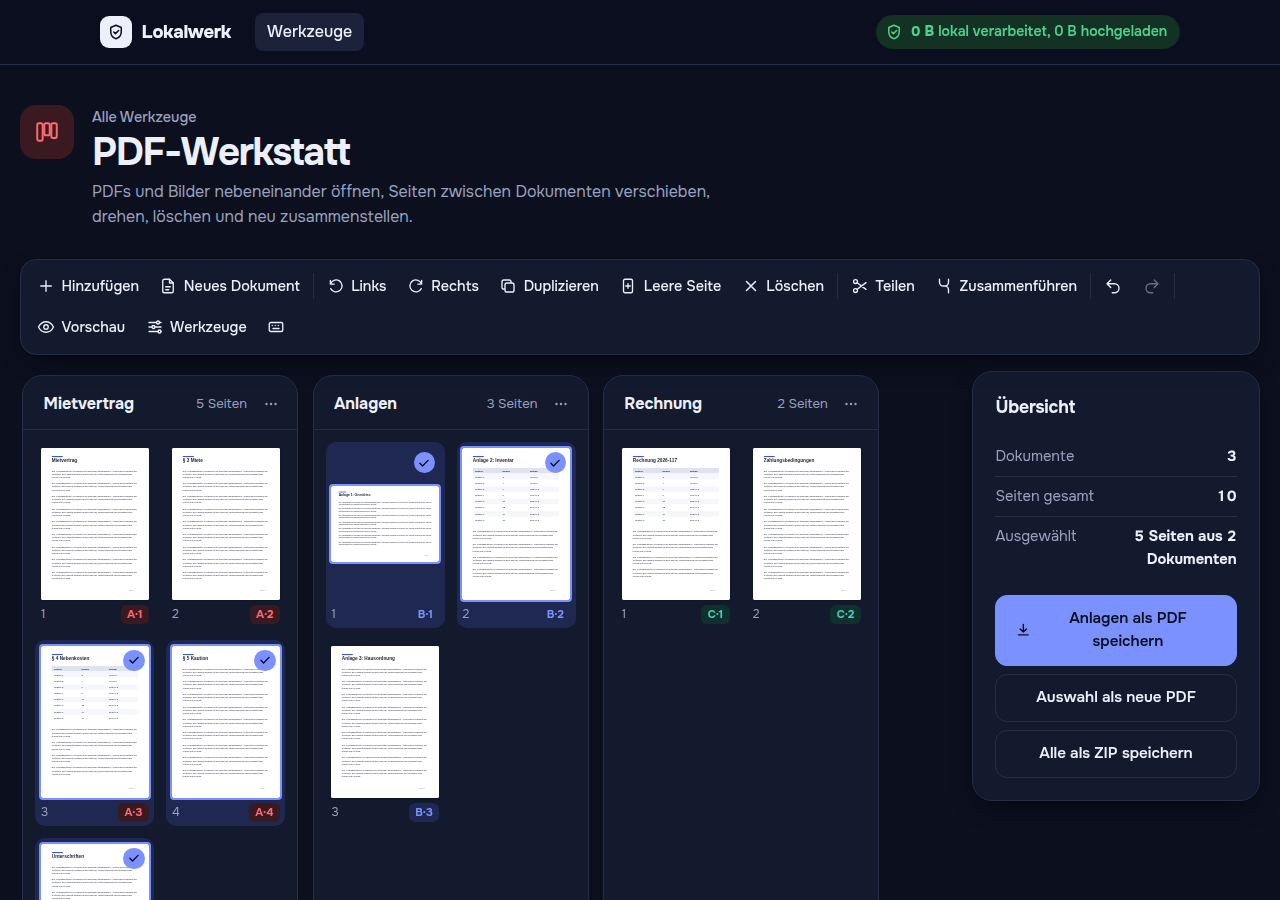
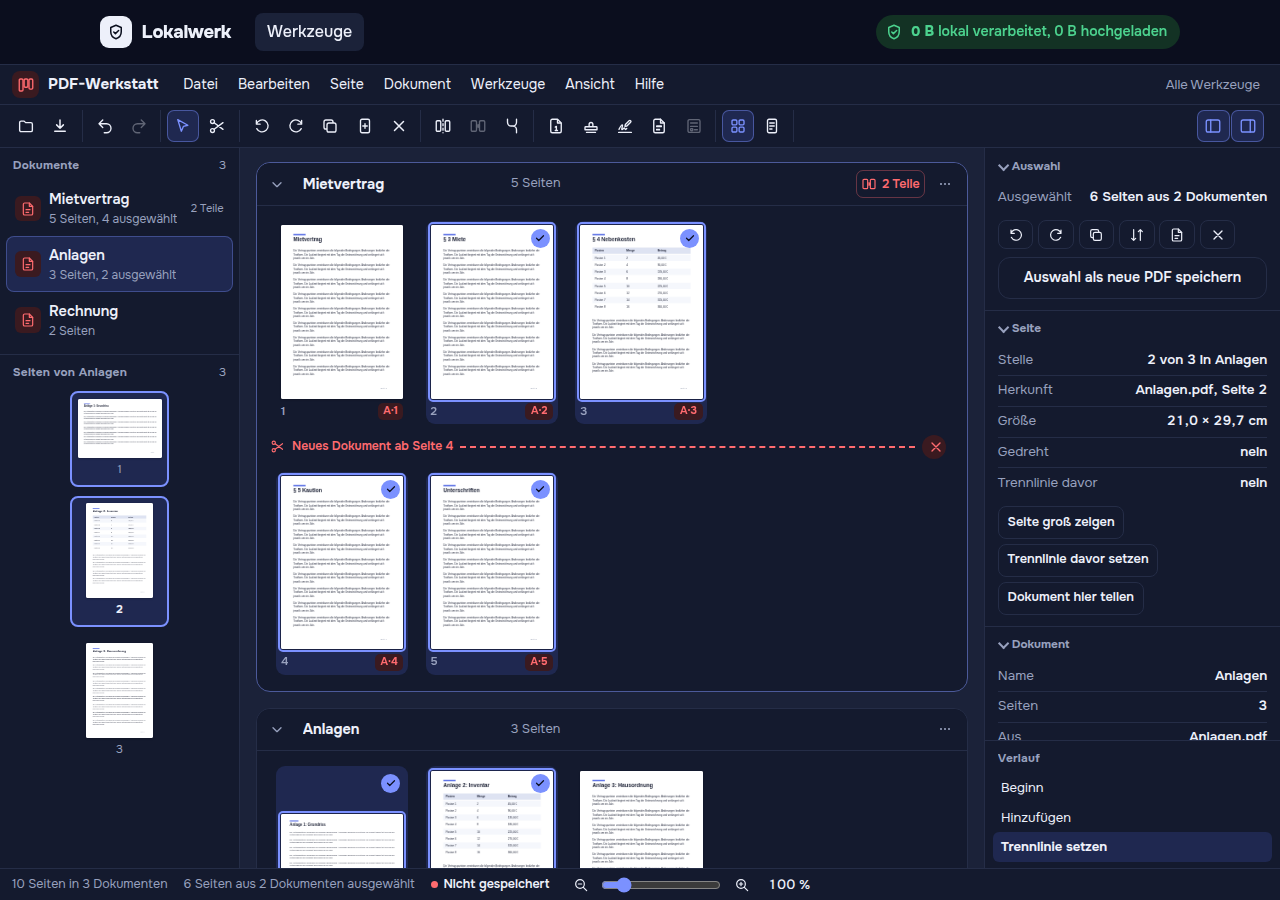
PDF-Werkstatt, Umbau: Trennlinien alle n Seiten, Querformat hochkant, neue README-Screenshots
Claude-Session: https://claude.ai/code/session_01RTJKHEUfQYsWeNYKSB1B31

diff --git a/src/tools/pdf-werkstatt/actions.ts b/src/tools/pdf-werkstatt/actions.ts
@@ -11,6 +11,7 @@ import {
   closeDoc,
   joinDocs,
   moveDoc,
+  replaceCuts,
   reversePages,
   setCuts,
   splitAtCuts,
@@ -40,6 +41,7 @@ import {
   type DocId,
   type PageBox,
   type PageKey,
+  visiblePageSize,
 } from '../../core/workshop/model.ts';
 import {
   EMPTY_SELECTION,
@@ -574,6 +576,39 @@ export function createActions(ctx: ActionContext) {
       const target = findDoc(store.state, doc);
       if (!target) return;
       selectAnnounce(target.pages.filter((_, i) => (i % 2 === 0) === odd).map((p) => p.key));
+    },
+
+    /** Trennlinien alle `n` Seiten setzen (Teilen nach Seitenzahl, erst ansehen, dann teilen) */
+    cutsEvery: (doc: DocId, n: number): void => {
+      const target = findDoc(store.state, doc);
+      if (!target || n < 1) return;
+      const keys = target.pages.filter((_, i) => i > 0 && i % n === 0).map((p) => p.key);
+      if (keys.length === 0) {
+        ctx.announce(t.CUTS_EVERY_NONE);
+        return;
+      }
+      store.run(replaceCuts(doc, keys));
+      ctx.announce(t.cutsEveryDone(keys.length + 1, target.name));
+    },
+
+    /** Seiten im Querformat um 90 Grad drehen, damit alle hochkant stehen */
+    portrait: (): void => {
+      const keys = needPages();
+      if (!keys) return;
+      const index = indexPages(store.state);
+      const wide = keys.filter((k) => {
+        const page = index.get(k)?.page;
+        if (!page) return false;
+        const size = visiblePageSize(store.state, page);
+        return size.width > size.height;
+      });
+      if (wide.length === 0) {
+        ctx.announce(t.PORTRAIT_NONE);
+        return;
+      }
+      store.run(rotatePages(wide, 90));
+      ctx.announce(t.portraitDone(wide.length));
+      ctx.focusAfterRender();
     },
 
     /** Seiten nach Nummern (ab 1) im Dokument auswählen */

diff --git a/src/tools/pdf-werkstatt/texts.ts b/src/tools/pdf-werkstatt/texts.ts
@@ -407,6 +407,8 @@ export const C = {
   cutRemoveHere: 'Trennlinie davor entfernen',
   splitHere: 'Dokument hier teilen',
   splitCuts: 'An Trennlinien teilen',
+  cutsEvery: 'Trennlinien alle … Seiten',
+  portrait: 'Querformat hochkant drehen',
   clearCuts: 'Alle Trennlinien entfernen',
   openSingle: 'Seite groß zeigen',
   rename: 'Umbenennen',
@@ -588,3 +590,18 @@ export const GRID_KEYS: readonly (readonly [string, string])[] = [
   [combo('shift', 'F10'), 'Menü der Seite'],
   ['F10', 'Menüleiste'],
 ];
+
+// Teilen nach Seitenzahl, Querformat hochkant
+export const CUTS_EVERY_TITLE = 'Trennlinien alle … Seiten';
+export const CUTS_EVERY_LABEL = 'Seiten je Teil';
+export const CUTS_EVERY_OK = 'Trennlinien setzen';
+export const cutsEverySub = (name: string, count: number): string =>
+  `${name}, ${pages(count)}. Vorhandene Trennlinien werden ersetzt; geteilt wird erst mit „An Trennlinien teilen“.`;
+export const cutsEveryError = (count: number): string =>
+  `Gib eine Zahl von 1 bis ${Math.max(1, count - 1)} ein.`;
+export const cutsEveryDone = (parts: number, name: string): string =>
+  `Trennlinien gesetzt: ${name} ergibt ${parts} Teile. Mit „An Trennlinien teilen“ entstehen die Dokumente.`;
+export const CUTS_EVERY_NONE =
+  'Das Dokument ist nicht länger als ein Teil. Es wurde keine Trennlinie gesetzt.';
+export const portraitDone = (n: number): string => `${pages(n)} im Querformat hochkant gedreht`;
+export const PORTRAIT_NONE = 'Keine der Seiten steht im Querformat.';

diff --git a/src/tools/pdf-werkstatt/ui-commands.ts b/src/tools/pdf-werkstatt/ui-commands.ts
@@ -74,6 +74,7 @@ export interface App {
   openShortcuts: () => void;
   goToPage: () => void;
   selectRange: () => void;
+  cutsEvery: () => void;
   showGuide: () => void;
   openSingle: (key?: PageKey) => void;
 }
@@ -421,6 +422,13 @@ export function createCommands(app: App): Map<string, Cmd> {
       group: 'doc',
     },
     {
+      id: 'cuts-every',
+      label: t.C.cutsEvery,
+      enabled: () => (doc()?.pages.length ?? 0) > 1,
+      run: app.cutsEvery,
+    },
+    { id: 'portrait', label: t.C.portrait, enabled: hasPages, run: actions.portrait },
+    {
       id: 'clear-cuts',
       label: t.C.clearCuts,
       enabled: () => {
@@ -700,6 +708,7 @@ export function menubar(ctx: MenuContext): { label: string; items: () => MenuEnt
         e('rotate-right'),
         e('rotate-left'),
         e('rotate-180'),
+        e('portrait'),
         SEP,
         e('shift-up'),
         e('shift-down'),
@@ -745,6 +754,7 @@ export function menubar(ctx: MenuContext): { label: string; items: () => MenuEnt
         e('duplicate-doc'),
         SEP,
         e('split-cuts'),
+        e('cuts-every'),
         e('clear-cuts'),
         e('merge'),
         {

diff --git a/src/core/workshop/commands.ts b/src/core/workshop/commands.ts
@@ -615,6 +615,26 @@ export function setCuts(keys: Iterable<PageKey>, on: boolean): Command {
   };
 }
 
+/** Trennlinien eines Dokuments durch genau diese ersetzen (Trennlinien alle n Seiten) */
+export function replaceCuts(id: DocId, keys: readonly PageKey[]): Command {
+  return {
+    label: 'Trennlinien setzen',
+    apply(state) {
+      const doc = findDoc(state, id);
+      if (!doc) return unchanged(state);
+      const inner = new Set(doc.pages.slice(1).map((p) => p.key));
+      const cuts = keys.filter((k) => inner.has(k));
+      const before = doc.cuts ?? [];
+      if (cuts.length === before.length && cuts.every((k) => before.includes(k))) {
+        return unchanged(state);
+      }
+      const { cuts: _old, ...rest } = doc;
+      const next: Doc = cuts.length > 0 ? { ...rest, cuts } : rest;
+      return { state: withDocs(state, replaceDoc(state.docs, next)) };
+    },
+  };
+}
+
 /** Alle Trennlinien der Dokumente entfernen */
 export function clearCuts(ids: Iterable<DocId>): Command {
   return {

diff --git a/tests/core/workshop/cuts.test.ts b/tests/core/workshop/cuts.test.ts
@@ -6,6 +6,7 @@ import {
   joinDocs,
   mergeDocs,
   moveDoc,
+  replaceCuts,
   movePages,
   setCuts,
   setPageNumbers,
@@ -59,6 +60,16 @@ describe('Trennlinien', () => {
     // Keine Linien mehr, Seitenzahlen gelten für jeden Teil
     expect(result.state.docs.every((d) => d.cuts === undefined)).toBe(true);
     expect(result.state.docs.slice(0, 3).every((d) => d.ops?.length === 1)).toBe(true);
+  });
+
+  it('ersetzt alle Linien eines Dokuments in einem Schritt (alle n Seiten)', () => {
+    const b = bench(pdfSource('a', 7));
+    const doc = b.state.docs[0]?.id ?? '';
+    b.run(setCuts(keysOf(b.state, 0, 1), true));
+    b.run(replaceCuts(doc, keysOf(b.state, 0, 0, 3, 6)));
+    expect(b.state.docs[0] && cutIndices(b.state.docs[0])).toEqual([3, 6]);
+    const before = b.state;
+    expect(b.run(replaceCuts(doc, keysOf(b.state, 0, 6, 3)))).toBe(before);
   });
 
   it('ohne Linien ändert „An Trennlinien teilen“ nichts', () => {

diff --git a/src/tools/pdf-werkstatt/page.ts b/src/tools/pdf-werkstatt/page.ts
@@ -441,6 +441,26 @@ const app: App = {
       },
     });
   },
+  cutsEvery: () => {
+    const doc = activeDoc();
+    if (!doc || doc.pages.length < 2) return;
+    askDialog.open({
+      title: t.CUTS_EVERY_TITLE,
+      sub: t.cutsEverySub(doc.name, doc.pages.length),
+      label: t.CUTS_EVERY_LABEL,
+      ok: t.CUTS_EVERY_OK,
+      inputMode: 'numeric',
+      value: '1',
+      submit: (value) => {
+        const n = Number(value);
+        if (!Number.isInteger(n) || n < 1 || n >= doc.pages.length) {
+          return t.cutsEveryError(doc.pages.length);
+        }
+        actions.cutsEvery(doc.id, n);
+        return null;
+      },
+    });
+  },
   showGuide: () => {
     const target = document.getElementById('ws-explain');
     target?.scrollIntoView({ behavior: 'smooth', block: 'start' });

diff --git a/docs/umbau-entscheidungen.md b/docs/umbau-entscheidungen.md
@@ -23,3 +23,5 @@ entschieden und mit einem Satz begründet. Fortschritt: `docs/umbau-fortschritt.
 | U16 | „In neues Dokument“ verschiebt jetzt (E); die bisherige Kopie heißt „Als Kopie in neues Dokument“. | Das erwartet man in einem Editor; die Kopie bleibt erreichbar. |
 | U17 | Zusätzliche Befehle ohne neue Fachregeln: Reihenfolge umkehren, um 180 Grad drehen, Danach einfügen, gerade/ungerade Seiten, Seitenbereich auswählen, Auswahl umkehren, Gehe zu Seite, Dokumente einklappen, Dokument nach oben/unten, Leisten ein- und ausblenden. | Übliche Funktionen eines Seiten-Editors; jede ist ein Menüeintrag. |
 | U18 | Auf dem Handy bleibt die vereinfachte Ansicht (ein Dokument, untere Leiste, kein Ziehen); die Menüleiste ist dort ebenfalls da, „Mehr“ zeigt alle Menüs. | Damit ist auf kleinen Bildschirmen jede Aktion erreichbar, ohne die Bedienung zu überladen. |
+| U19 | „Trennlinien alle … Seiten“ setzt die Linien nur (ein Schritt im Verlauf); geteilt wird erst mit „An Trennlinien teilen“. | So sieht man vorher, wie die Teile aussehen, und kann einzelne Linien noch verschieben oder entfernen. |
+| U20 | „Querformat hochkant drehen“ dreht nur die ausgewählten Seiten, die gerade breiter als hoch sind, um 90 Grad nach rechts. | Häufiger Fall bei Scans; die Richtung lässt sich danach mit einem Klick ändern. |

diff --git a/docs/umbau-fortschritt.md b/docs/umbau-fortschritt.md
@@ -47,6 +47,6 @@ nach unten abarbeiten, nach jedem Commit den Status hier aktualisieren.
 | 12 | Zusammenführen-Dialog mit Reihenfolge, Tastenkürzel-Übersicht aus der Befehlsliste | fertig |
 | 13 | Handy-Ansicht (vereinfacht, alles erreichbar) | offen |
 | 14 | Texte sammeln (texte-pdf-werkstatt.md), Erklärtext anpassen | fertig |
-| 15 | Screenshots- und Leistungsskript an die neue Oberfläche anpassen, README-Screenshots | offen |
+| 15 | Screenshots- und Leistungsskript an die neue Oberfläche anpassen, README-Screenshots | fertig |
 | 16 | Browser-Prüfung am Ende (Konsole, Netzwerk, CSP, hell/dunkel, 1280 px, Handy) | offen |
 | 17 | npm run check, CI, Merge nach main, Abschlussbericht | offen |
